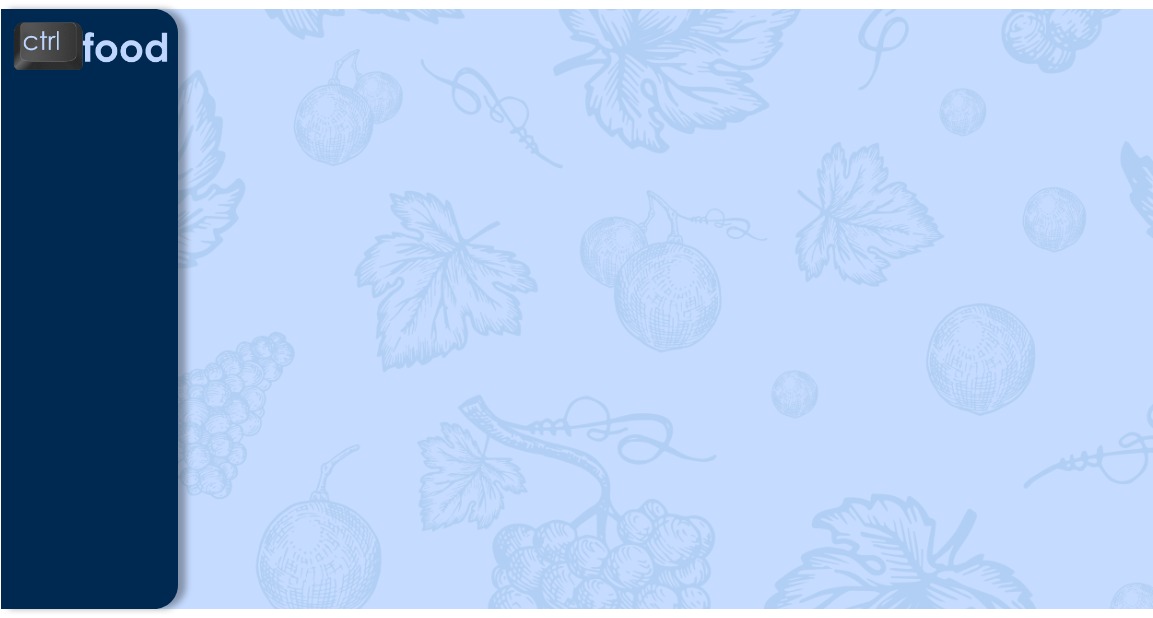
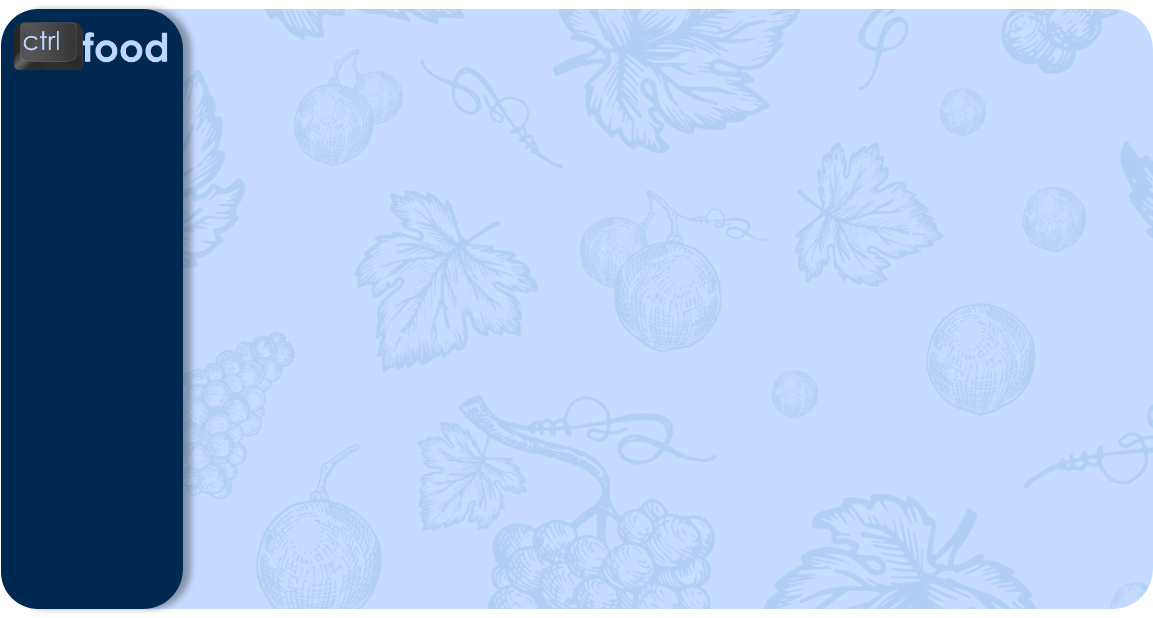
Rounded corner Frame

diff --git a/src/Design/FrameAmministratore.java b/src/Design/FrameAmministratore.java
@@ -5,11 +5,14 @@ import java.awt.Toolkit;
 import javax.swing.JFrame;
 import javax.swing.JPanel;
 
+import ExternalClasses.ContentPane;
 import Main.Controller;
 
 import javax.swing.JLabel;
 import javax.swing.ImageIcon;
 import javax.swing.JButton;
+
+import java.awt.Color;
 import java.awt.Cursor;
 import java.awt.event.ActionListener;
 import java.awt.event.ActionEvent;
@@ -20,7 +23,7 @@ import java.awt.event.MouseAdapter;
 public class FrameAmministratore extends JFrame {
 
 	private static final long serialVersionUID = 1L;
-	private JPanel PanelPrincipale;
+	private ContentPane contentPane;
 	private JPanel PanelCaricamento;
 	private JLabel LabelDeposito;
 	private JLabel LabelNegozio;
@@ -45,45 +48,47 @@ public class FrameAmministratore extends JFrame {
 		setResizable(false);
 		setDefaultCloseOperation(JFrame.EXIT_ON_CLOSE);
 		setSize(1152, 600);
+		getContentPane().setLayout(null);
 		setLocation((Toolkit.getDefaultToolkit().getScreenSize().width - getSize().width) / 2, (Toolkit.getDefaultToolkit().getScreenSize().height - getSize().height) / 2);	
 		
-		/*PANEL PRINCIPALE*/
-		PanelPrincipale = new JPanel();
-		PanelPrincipale.setBorder(null);
-		PanelPrincipale.setLayout(null);
-		setContentPane(PanelPrincipale);
+		/*CONTENTPANE*/
+		contentPane = new ContentPane();
+		setContentPane(contentPane);
+		getContentPane().isOpaque();
+		setBackground(new Color(0, 67, 137, 0));
+		contentPane.setLayout(null);
 		
 		/*LABEL DEPOSITO*/
 		LabelDeposito = new JLabel("");
 		LabelDeposito.setIcon(new ImageIcon(FrameAmministratore.class.getResource("/scrimg/IcoHomeWhite_32.png")));
 		LabelDeposito.setBounds(10, 151, 44, 44);
-		PanelPrincipale.add(LabelDeposito);
+		getContentPane().add(LabelDeposito);
 		
 		/*LABEL NEGOZIO*/
 		LabelNegozio = new JLabel("");
 		LabelNegozio.setIcon(new ImageIcon(FrameAmministratore.class.getResource("/scrimg/IcoShopWhite_32.png")));
 		LabelNegozio.setBounds(10, 214, 44, 44);
-		PanelPrincipale.add(LabelNegozio);
+		getContentPane().add(LabelNegozio);
 		
 		/*LABEL CLIENTI*/
 		LabelClienti = new JLabel("");
 		LabelClienti.setIcon(new ImageIcon(FrameAmministratore.class.getResource("/scrimg/IcoUserWhite_32.png")));
 		LabelClienti.setBounds(10, 280, 44, 44);
-		PanelPrincipale.add(LabelClienti);
+		getContentPane().add(LabelClienti);
 		
 		/*LABEL LOGOUT*/
 		LabelLogout = new JLabel("");
 		LabelLogout.setIcon(new ImageIcon(FrameAmministratore.class.getResource("/scrimg/IcoLogout_32.png")));
 		LabelLogout.setBounds(10, 498, 44, 44);
-		PanelPrincipale.add(LabelLogout);
+		getContentPane().add(LabelLogout);
 		
 		/*PANEL CARICAMENTO*/
 		PanelCaricamento = new JPanel();
 		PanelCaricamento.setOpaque(false);
 		PanelCaricamento.setBorder(null);
 		PanelCaricamento.setBounds(194, 26, 948, 563);
-		PanelPrincipale.add(PanelCaricamento);
 		PanelCaricamento.setLayout(null);
+		getContentPane().add(PanelCaricamento);
 		
 		/*BUTTON HOMEPAGE*/
 		ButtonHomepage = new JButton("");
@@ -102,7 +107,7 @@ public class FrameAmministratore extends JFrame {
 		ButtonHomepage.setBounds(10, 11, 159, 53);
 		ButtonHomepage.setContentAreaFilled(false);
 		ButtonHomepage.setFocusable(false);
-		PanelPrincipale.add(ButtonHomepage);
+		getContentPane().add(ButtonHomepage);
 		
 		/*BUTTON DEPOSITO*/
 		ButtonDeposito = new JButton("");
@@ -121,7 +126,7 @@ public class FrameAmministratore extends JFrame {
 		ButtonDeposito.setOpaque(false);
 		ButtonDeposito.setIcon(new ImageIcon(FrameAmministratore.class.getResource("/scrimg/DepositoWhite.png")));
 		ButtonDeposito.setBounds(51, 156, 107, 39);
-		PanelPrincipale.add(ButtonDeposito);
+		getContentPane().add(ButtonDeposito);
 		
 		/*BUTTON NEGOZIO*/
 		ButtonNegozio = new JButton("");
@@ -140,7 +145,7 @@ public class FrameAmministratore extends JFrame {
 		ButtonNegozio.setContentAreaFilled(false);
 		ButtonNegozio.setBorderPainted(false);
 		ButtonNegozio.setBounds(51, 219, 97, 39);
-		PanelPrincipale.add(ButtonNegozio);
+		getContentPane().add(ButtonNegozio);
 		
 		/*BUTTON CLIENTI*/
 		ButtonClienti = new JButton("");
@@ -159,7 +164,7 @@ public class FrameAmministratore extends JFrame {
 		ButtonClienti.setContentAreaFilled(false);
 		ButtonClienti.setBorderPainted(false);
 		ButtonClienti.setBounds(51, 285, 82, 39);
-		PanelPrincipale.add(ButtonClienti);
+		getContentPane().add(ButtonClienti);
 		
 		/*BUTTON LOGOUT*/
 		ButtonLogout = new JButton("");
@@ -178,7 +183,7 @@ public class FrameAmministratore extends JFrame {
 		ButtonLogout.setContentAreaFilled(false);
 		ButtonLogout.setBorderPainted(false);
 		ButtonLogout.setBounds(51, 503, 86, 39);
-		PanelPrincipale.add(ButtonLogout);
+		getContentPane().add(ButtonLogout);
 		
 		/*BUTTON CHIUDI*/
 		ButtonChiudi = new JButton("");
@@ -203,8 +208,8 @@ public class FrameAmministratore extends JFrame {
 		ButtonChiudi.setOpaque(false);
 		ButtonChiudi.setBorder(null);
 		ButtonChiudi.setContentAreaFilled(false);
-		ButtonChiudi.setBounds(1130, 5, 18, 18);
-		PanelPrincipale.add(ButtonChiudi);
+		ButtonChiudi.setBounds(1109, 5, 18, 18);
+		getContentPane().add(ButtonChiudi);
 		
 		/*BUTTON RIDUCI*/
 		ButtonRiduci = new JButton("");
@@ -226,24 +231,24 @@ public class FrameAmministratore extends JFrame {
 		ButtonRiduci.setFocusable(false);
 		ButtonRiduci.setCursor(Cursor.getPredefinedCursor(Cursor.HAND_CURSOR));
 		ButtonRiduci.setIcon(new ImageIcon(FrameAmministratore.class.getResource("/scrimg/ButtonRiduci.png")));
-		ButtonRiduci.setBounds(1109, 5, 15, 18);
+		ButtonRiduci.setBounds(1088, 5, 15, 18);
 		ButtonRiduci.setOpaque(false);
 		ButtonRiduci.setBorder(null);
 		ButtonRiduci.setContentAreaFilled(false);
-		PanelPrincipale.add(ButtonRiduci);
+		getContentPane().add(ButtonRiduci);
 		
 		/*LABEL SFONDO BUTTON*/
 		LabelSfondoButton = new JLabel("");
 		LabelSfondoButton.setVisible(false);
 		LabelSfondoButton.setIcon(new ImageIcon(FrameAmministratore.class.getResource("/scrimg/SfondoButton.png")));
 		LabelSfondoButton.setBounds(0, 140, 177, 43);
-		PanelPrincipale.add(LabelSfondoButton);
+		getContentPane().add(LabelSfondoButton);
 		
 		/*LABEL SFONDO*/
 		LabelSfondo = new JLabel("");
 		LabelSfondo.setIcon(new ImageIcon(FrameAmministratore.class.getResource("/scrimg/SfondoFrame.png")));
 		LabelSfondo.setBounds(-2, 0, 1162, 600);
-		PanelPrincipale.add(LabelSfondo);
+		getContentPane().add(LabelSfondo);
 		
 		ctrl.ApriAnimazionePanel(ctrl, PanelCaricamento);
 	}

diff --git a/src/Design/FrameCliente.java b/src/Design/FrameCliente.java
@@ -1,5 +1,6 @@
 package Design;
 
+import java.awt.Color;
 import java.awt.Cursor;
 import java.awt.Font;
 import java.awt.Toolkit;
@@ -13,12 +14,14 @@ import javax.swing.JButton;
 import javax.swing.JFrame;
 import javax.swing.JLabel;
 import javax.swing.JPanel;
+
+import ExternalClasses.ContentPane;
 import Main.Controller;
 
 public class FrameCliente extends JFrame {
 
 	private static final long serialVersionUID = 1L;
-	private JPanel PanelPrincipale;
+	private ContentPane contentPane;
 	private JPanel PanelCaricamento;
 	private JLabel LabelCarrello;
 	private JLabel LabelCassa;
@@ -43,39 +46,39 @@ public class FrameCliente extends JFrame {
 		setSize(1152, 600);
 		setLocation((Toolkit.getDefaultToolkit().getScreenSize().width - getSize().width) / 2, (Toolkit.getDefaultToolkit().getScreenSize().height - getSize().height) / 2);	
 		
-		/*PANEL PRINCIPALE*/
-		PanelPrincipale = new JPanel();
-		PanelPrincipale.setBorder(null);
-		PanelPrincipale.setLayout(null);
-		setContentPane(PanelPrincipale);
+		/*CONTENTPANE*/
+		contentPane = new ContentPane();
+		setContentPane(contentPane);
+		getContentPane().isOpaque();
+		setBackground(new Color(0, 67, 137, 0));
+		contentPane.setLayout(null);
 		
 		/*PANEL CARICAMENTO*/
 		PanelCaricamento = new JPanel();
 		PanelCaricamento.setOpaque(false);
 		PanelCaricamento.setBorder(null);
 		PanelCaricamento.setBounds(194, 26, 948, 563);
-		PanelPrincipale.add(PanelCaricamento);
 		PanelCaricamento.setLayout(null);
+		getContentPane().add(PanelCaricamento);
 		
 		/*LABEL CARRELLO*/
 		LabelCarrello = new JLabel("");
 		LabelCarrello.setIcon(new ImageIcon(FrameAmministratore.class.getResource("/scrimg/IcoShoppingCartWhite_32.png")));
 		LabelCarrello.setBounds(10, 151, 44, 44);
-		PanelPrincipale.add(LabelCarrello);
+		getContentPane().add(LabelCarrello);
 		
 		/*LABEL CASSA*/
 		LabelCassa = new JLabel("");
 		LabelCassa.setIcon(new ImageIcon(FrameAmministratore.class.getResource("/scrimg/CheckoutWhite_32.png")));
 		LabelCassa.setBounds(10, 214, 44, 44);
-		PanelPrincipale.add(LabelCassa);
+		getContentPane().add(LabelCassa);
 		
 		/*LABEL ESCI*/
 		LabelEsci = new JLabel("");
 		LabelEsci.setIcon(new ImageIcon(FrameCliente.class.getResource("/scrimg/IcoExitWhite_32.png")));
 		LabelEsci.setBounds(10, 463, 32, 32);
-		PanelPrincipale.add(LabelEsci);
-		
-		
+		getContentPane().add(LabelEsci);
+	
 		/*BUTTON INDIETRO*/
 		ButtonEsci = new JButton("");
 		ButtonEsci.addActionListener(new ActionListener() {
@@ -94,7 +97,7 @@ public class FrameCliente extends JFrame {
 		ButtonEsci.setContentAreaFilled(false);
 		ButtonEsci.setBorderPainted(false);
 		ButtonEsci.setBounds(52, 456, 54, 39);
-		PanelPrincipale.add(ButtonEsci);
+		getContentPane().add(ButtonEsci);
 		
 		/*BUTTON CARRELLO*/
 		ButtonCarrello = new JButton("");
@@ -114,7 +117,7 @@ public class FrameCliente extends JFrame {
 		ButtonCarrello.setContentAreaFilled(false);
 		ButtonCarrello.setBorderPainted(false);
 		ButtonCarrello.setBounds(51, 156, 98, 39);
-		PanelPrincipale.add(ButtonCarrello);
+		getContentPane().add(ButtonCarrello);
 		
 		/*BUTTONCASSA*/ 
 		ButtonCassa = new JButton("");
@@ -134,7 +137,7 @@ public class FrameCliente extends JFrame {
 		ButtonCassa.setBorderPainted(false);
 		ButtonCassa.setOpaque(false);
 		ButtonCassa.setFocusable(false);
-		PanelPrincipale.add(ButtonCassa);
+		getContentPane().add(ButtonCassa);
 		
 		/*BUTTON CHIUDI*/
 		ButtonChiudi = new JButton("");
@@ -160,8 +163,8 @@ public class FrameCliente extends JFrame {
 		ButtonChiudi.setOpaque(false);
 		ButtonChiudi.setBorder(null);
 		ButtonChiudi.setContentAreaFilled(false);
-		ButtonChiudi.setBounds(1130, 5, 18, 18);
-		PanelPrincipale.add(ButtonChiudi);
+		ButtonChiudi.setBounds(1109, 5, 18, 18);
+		getContentPane().add(ButtonChiudi);
 		
 		/*BUTTON CHIUDI*/
 		ButtonRiduci = new JButton("");
@@ -183,11 +186,11 @@ public class FrameCliente extends JFrame {
 		ButtonRiduci.setFocusable(false);
 		ButtonRiduci.setCursor(Cursor.getPredefinedCursor(Cursor.HAND_CURSOR));
 		ButtonRiduci.setIcon(new ImageIcon(FrameAmministratore.class.getResource("/scrimg/ButtonRiduci.png")));
-		ButtonRiduci.setBounds(1109, 5, 15, 18);
+		ButtonRiduci.setBounds(1088, 5, 15, 18);
 		ButtonRiduci.setOpaque(false);
 		ButtonRiduci.setBorder(null);
 		ButtonRiduci.setContentAreaFilled(false);
-		PanelPrincipale.add(ButtonRiduci);
+		getContentPane().add(ButtonRiduci);
 		
 		/*BUTTON HOMEPAGE*/
 		ButtonHomepage = new JButton("");
@@ -206,20 +209,20 @@ public class FrameCliente extends JFrame {
 		ButtonHomepage.setBounds(10, 5, 160, 55);
 		ButtonHomepage.setContentAreaFilled(false);
 		ButtonHomepage.setFocusable(false);
-		PanelPrincipale.add(ButtonHomepage);
+		getContentPane().add(ButtonHomepage);
 		
 		/*LABEL SFONDO BUTTON*/
 		LabelSfondoButton = new JLabel("");
 		LabelSfondoButton.setVisible(false);
 		LabelSfondoButton.setIcon(new ImageIcon(FrameAmministratore.class.getResource("/scrimg/SfondoButton.png")));
 		LabelSfondoButton.setBounds(0, 140, 177, 43);
-		PanelPrincipale.add(LabelSfondoButton);
+		getContentPane().add(LabelSfondoButton);
 		
 		/*LABEL SFONDO*/
 		LabelSfondo = new JLabel("");
 		LabelSfondo.setIcon(new ImageIcon(FrameCliente.class.getResource("/scrimg/SfondoFrame.png")));
 		LabelSfondo.setBounds(-2, 0, 1162, 600);
-		PanelPrincipale.add(LabelSfondo);
+		getContentPane().add(LabelSfondo);
 		
 		ctrl.ApriAnimazionePanel(ctrl, PanelCaricamento);
 	}
